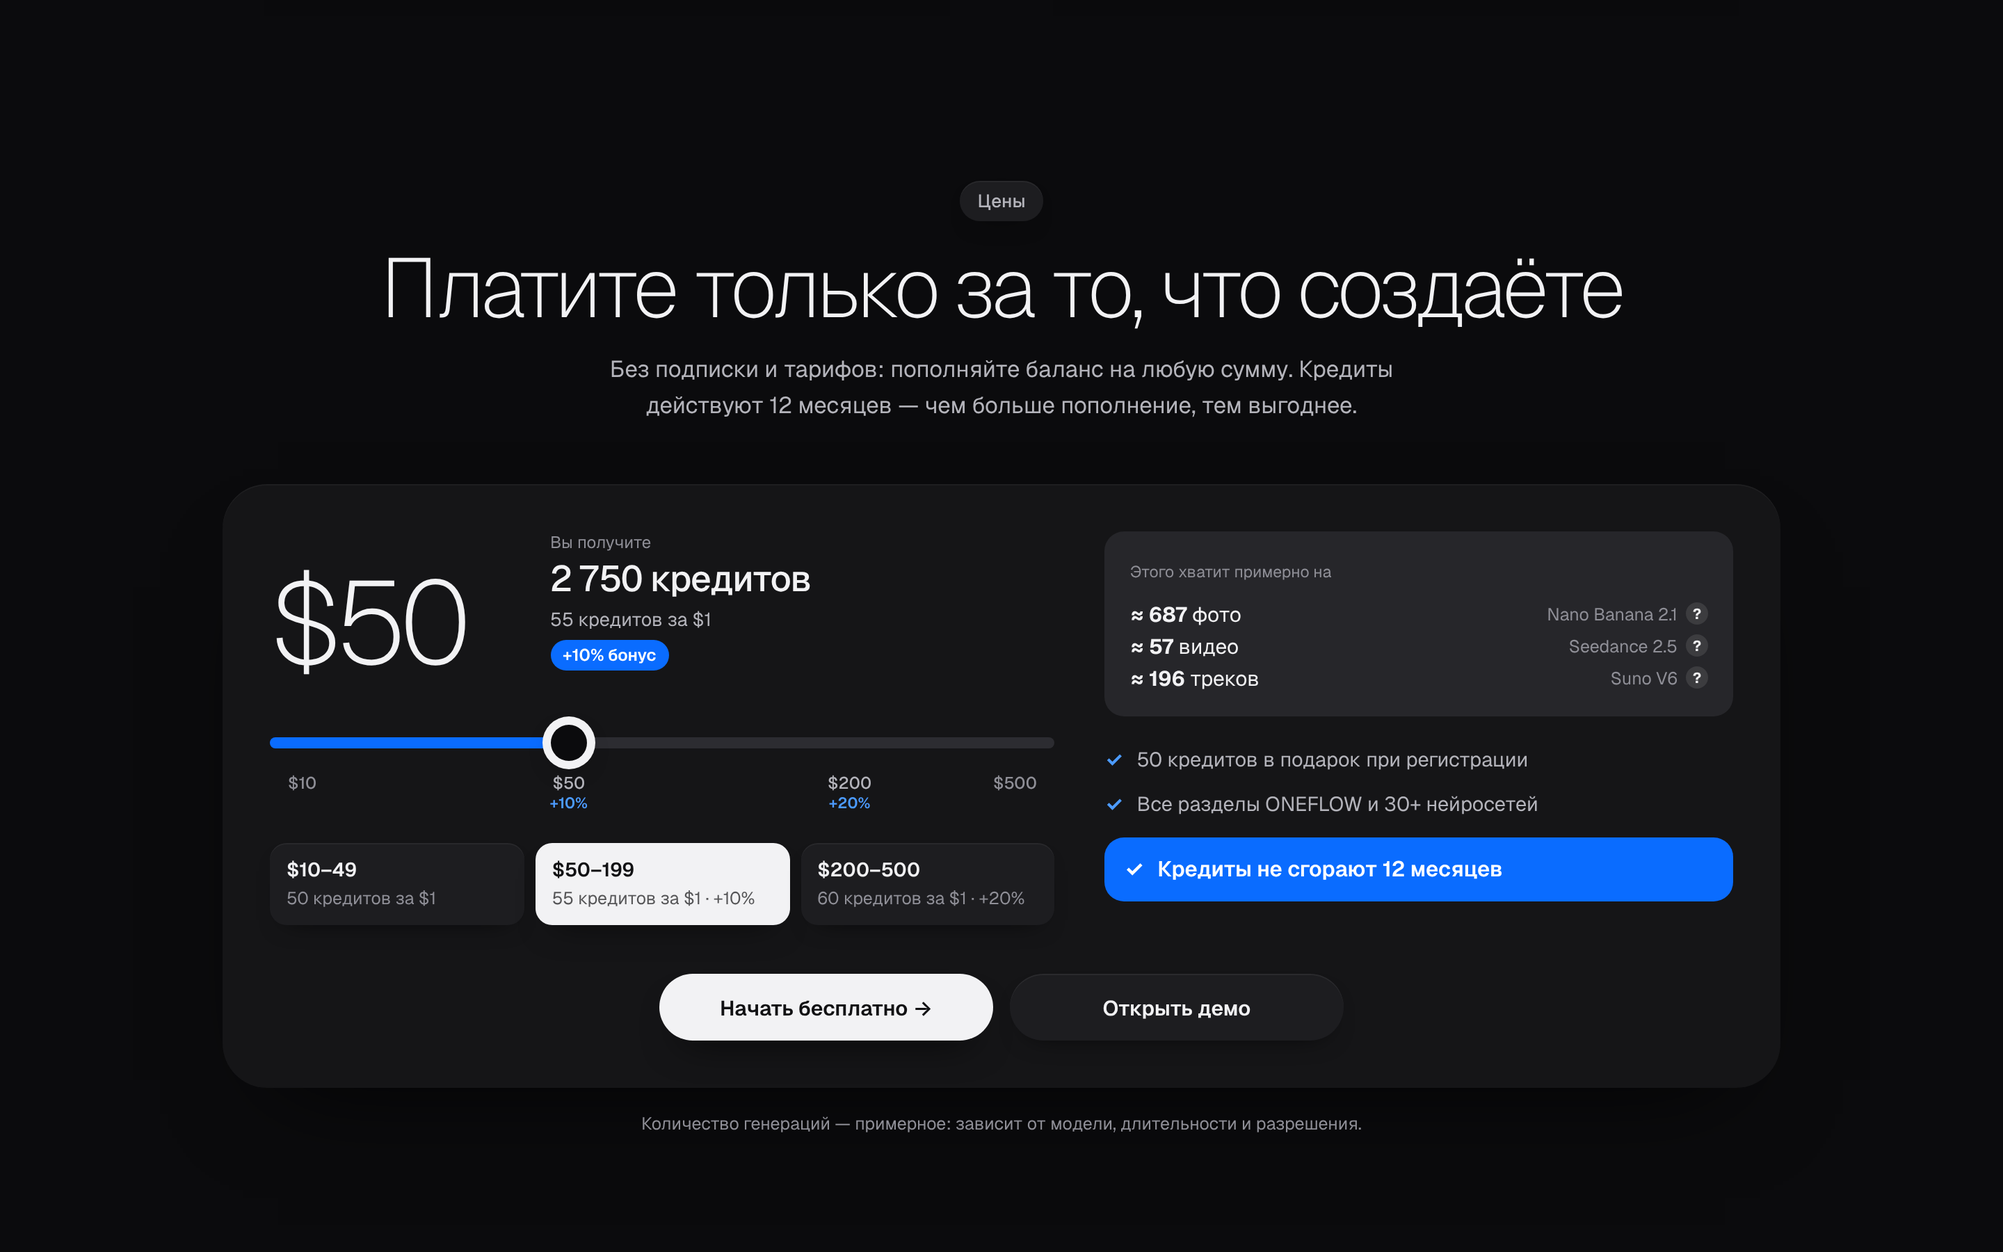
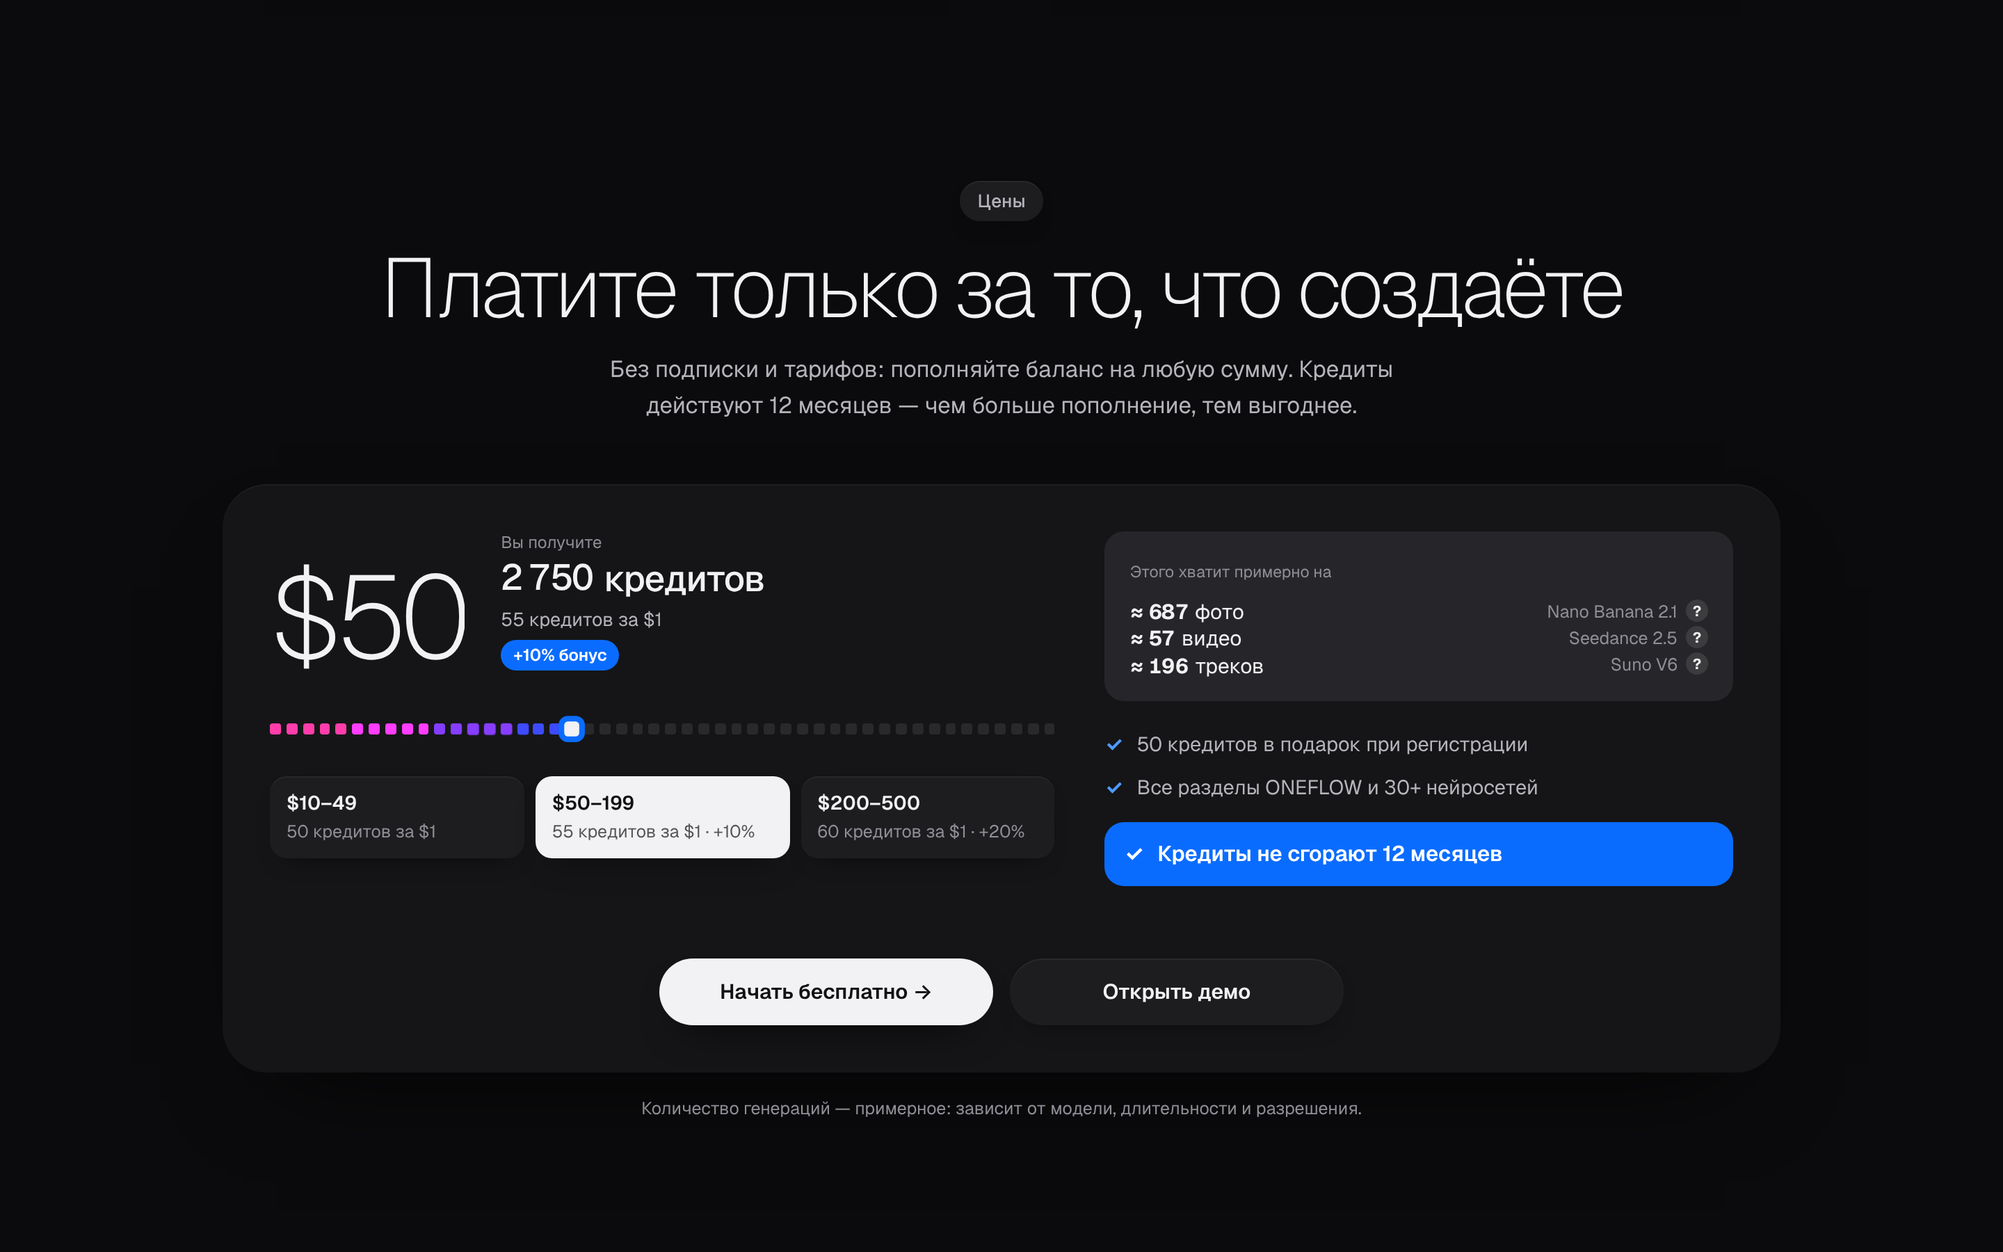
Hero draft: squares in the pricing card and the app's top-up window (v19.67)
Claude-Session: https://claude.ai/code/session_018a2KjtpEKLUTJU5P3jAt1D

diff --git a/landing/hero_draft/patch_topup_app.py b/landing/hero_draft/patch_topup_app.py
@@ -1,0 +1,239 @@
+"""The app's top-up window gets the control of the landing: a row of squares over an invisible range input,
+numbers that roll like a drum, and the three examples counted from the app's own (Atlas Cloud) price tables.
+Run from the root of the main repo:  python3 -I patch_topup_app.py"""
+
+# ---- credits.ts
+p = 'src/credits.ts'
+s = open(p, encoding='utf-8').read()
+tail = s[s.index('// What a credit buys, for the'):]
+new = '''// What a credit buys, for the "≈ N images" hints: the same three examples as the landing (the strip under the
+// hero and the pricing section), counted from the app's own price tables — the prices of Atlas Cloud — the way
+// the server counts credits (1 credit = 1 cent of cost, rounded up, with the model's price factor).
+export const EXAMPLE_VIDEO_MODEL = 'bytedance/seedance-2.5';
+export function creditExamples(modelCredits: (usd: number, model: string) => number): { image: number; video5s: number; music: number } {
+  return {
+    image: Math.max(1, modelCredits(estimateImageCost('google/nano-banana-2.1', '1K', 1), 'google/nano-banana-2.1')), // 4
+    video5s: Math.max(1, modelCredits(estimateVideoCost(EXAMPLE_VIDEO_MODEL, '480p', 5), EXAMPLE_VIDEO_MODEL)), // 48 at factor 0.7
+    music: Math.max(1, usdToCredits(SONG_USD)), // Suno V6, one request with two takes: 14
+  };
+}
+'''
+s = s.replace(tail, new)
+a = "import { usdToCredits, type CreditBalance } from './types';"
+assert s.count(a) == 1
+s = s.replace(a, "import { SONG_USD, estimateImageCost, estimateVideoCost, usdToCredits, type CreditBalance } from './types';")
+open(p, 'w', encoding='utf-8').write(s)
+
+# ---- i18n
+p = 'src/i18n.ts'
+s = open(p, encoding='utf-8').read()
+for a, b in [("videos: 'видео 5 с · Kling 3.0, 720p',", "videos: 'видео 5 с · Seedance 2.5, 480p',"),
+             ("music: 'треков · Lyria 3 Pro',", "music: 'треков · Suno V6',"),
+             ("videos: '5-second videos · Kling 3.0, 720p',", "videos: '5-second videos · Seedance 2.5, 480p',"),
+             ("music: 'music tracks · Lyria 3 Pro',", "music: 'music tracks · Suno V6',")]:
+    assert s.count(a) == 1, a
+    s = s.replace(a, b)
+open(p, 'w', encoding='utf-8').write(s)
+
+# ---- TopUpModal
+p = 'src/components/TopUpModal.tsx'
+s = open(p, encoding='utf-8').read()
+
+
+def once(a, b):
+    global s
+    assert s.count(a) == 1, a[:60]
+    s = s.replace(a, b)
+
+
+once("import { CREDIT_EXAMPLES, creditsForTopUp, topUpStops, useCredits } from '../credits';",
+     "import { creditExamples, creditsForTopUp, topUpStops, useCredits, useModelCredits } from '../credits';")
+once("// Top-up window: a slider over sensible amounts,", '''// The squares of the amount control, as on the landing: they light up to the chosen sum and the last lit ones
+// pulse, the stronger the larger the sum. The real range input lies over them, invisible, so the keyboard, the
+// mouse and touch work as with any slider.
+const HUES = [326, 300, 262, 236, 212, 190, 158, 110, 70, 36];
+const PULSE = 7;
+
+function useNarrow(): boolean {
+  const [narrow, setNarrow] = useState(() => window.matchMedia('(max-width: 560px)').matches);
+  useEffect(() => {
+    const mq = window.matchMedia('(max-width: 560px)');
+    const on = () => setNarrow(mq.matches);
+    mq.addEventListener('change', on);
+    return () => mq.removeEventListener('change', on);
+  }, []);
+  return narrow;
+}
+
+function Squares({ part, amp }: { part: number; amp: number }) {
+  const n = useNarrow() ? 24 : 40;
+  const lit = Math.max(1, Math.round(part * (n - 1)) + 1);
+  const box = { ['--amp' as string]: amp.toFixed(3), ['--beat' as string]: `${(1.5 - amp * 0.85).toFixed(2)}s` };
+  return (
+    <div className="sq-cells" aria-hidden="true" style={box}>
+      {Array.from({ length: n }, (_, i) => {
+        const back = lit - 1 - i; // 0 is the square under the thumb
+        const beat = back > 0 && back <= PULSE;
+        const hue = HUES[Math.min(HUES.length - 1, Math.floor((i * HUES.length) / n))];
+        return (
+          <i
+            key={i}
+            className={`${i < lit ? 'on' : ''}${i === lit - 1 ? ' at' : ''}${beat ? ' beat' : ''}`}
+            style={{
+              ['--c' as string]: `hsl(${hue} 100% 62%)`,
+              ...(beat ? { ['--near' as string]: (1 - (back - 1) / PULSE).toFixed(2), animationDelay: `${(-back * 0.09).toFixed(2)}s` } : {}),
+            }}
+          />
+        );
+      })}
+    </div>
+  );
+}
+
+/** A number whose digits roll to their new value like a drum; columns are counted from the right, so a longer
+ *  number grows on the left. */
+function Roll({ text }: { text: string }) {
+  const chars = text.split('');
+  return (
+    <span className="sq-roll" role="text" aria-label={text}>
+      {chars.map((ch, k) => {
+        const fromRight = chars.length - k;
+        return ch >= '0' && ch <= '9' ? (
+          <span key={`d${fromRight}`} className="sq-col" aria-hidden="true">
+            <u style={{ transform: `translateY(${-Number(ch) * 10}%)` }}>
+              0<br />1<br />2<br />3<br />4<br />5<br />6<br />7<br />8<br />9
+            </u>
+          </span>
+        ) : (
+          <span key={`c${fromRight}`} className="sq-ch" aria-hidden="true">
+            {ch}
+          </span>
+        );
+      })}
+    </span>
+  );
+}
+
+// Top-up window: a slider over sensible amounts,''')
+once("  const [consented, setConsented] = useState(false);\n",
+     "  const [consented, setConsented] = useState(false);\n  const modelCredits = useModelCredits();\n")
+once("  const pct = (idx / Math.max(1, stops.length - 1)) * 100;\n",
+     "  const part = idx / Math.max(1, stops.length - 1);\n  const examples = creditExamples(modelCredits);\n")
+once('<div className="topup-usd">${num(usd)}</div>',
+     '<div className="topup-usd">\n              <Roll text={`$${num(usd)}`} />\n            </div>')
+once("<b>{t.credits.count(credits)}</b>",
+     "<b>\n                <Roll text={num(credits)} /> {t.credits.count(credits).replace(/^[\\d\\s.,]+/, '')}\n              </b>")
+once('''<div className="topup-slider" style={{ ['--p' as string]: `${pct}%` }}>''',
+     '''<div className="topup-slider">\n            <Squares part={part} amp={Math.min(1, usd / Math.max(1, topup.maxUsd))} />''')
+for k in ['image', 'video5s', 'music']:
+    once("<b>≈ {num(Math.floor(credits / CREDIT_EXAMPLES.%s))}</b>" % k,
+         "<b>\n                  <Roll text={`≈ ${num(Math.floor(credits / examples.%s))}`} />\n                </b>" % k)
+open(p, 'w', encoding='utf-8').write(s)
+
+# ---- CSS
+p = 'src/Credits.css'
+s = open(p, encoding='utf-8').read()
+i = s.index('/* slider */')
+j = s.index('.topup-marks {')
+new = '''/* the amount control: a row of squares with the real range input over them, invisible (as on the landing) */
+.topup-slider {
+  position: relative;
+  margin: 26px 0 0;
+  padding-bottom: 40px;
+}
+.sq-cells {
+  display: flex;
+  gap: 4px;
+}
+.sq-cells i {
+  flex: 1;
+  aspect-ratio: 1;
+  border-radius: 2px;
+  background: color-mix(in srgb, var(--c-text) 10%, transparent);
+  transition: background 0.2s;
+}
+.sq-cells i.on {
+  background: var(--c);
+}
+.sq-cells i.at {
+  background: var(--c-text);
+  transform: scale(1.35);
+}
+.sq-cells i.beat {
+  animation: sq-beat var(--beat, 1.4s) ease-in-out infinite;
+}
+@keyframes sq-beat {
+  0%,
+  100% {
+    transform: scale(1);
+    filter: brightness(1);
+    box-shadow: 0 0 0 0 transparent;
+  }
+  50% {
+    transform: scale(calc(1 + 0.5 * var(--amp, 0) * var(--near, 0)));
+    filter: brightness(calc(1 + 0.7 * var(--amp, 0) * var(--near, 0)));
+    box-shadow: 0 0 calc(22px * var(--amp, 0) * var(--near, 0)) var(--c);
+  }
+}
+/* html:root lifts it above the app's global input styles (border, panel background) */
+html:root .topup-slider input[type='range'] {
+  -webkit-appearance: none;
+  appearance: none;
+  position: absolute;
+  left: 0;
+  top: -10px;
+  width: 100%;
+  height: calc(100% - 20px);
+  min-height: 34px;
+  margin: 0;
+  padding: 0;
+  border: 0;
+  box-shadow: none;
+  background: transparent;
+  opacity: 0;
+  cursor: pointer;
+}
+.topup-slider:has(input:focus-visible) .sq-cells i.at {
+  box-shadow: 0 0 0 3px var(--v2-accent);
+}
+/* a number that rolls: each digit is a column of ten */
+.sq-roll {
+  display: inline-flex;
+  vertical-align: bottom;
+  font-variant-numeric: tabular-nums;
+}
+.sq-col {
+  display: inline-block;
+  height: 1em;
+  line-height: 1;
+  overflow: hidden;
+}
+.sq-col u {
+  display: block;
+  text-align: center;
+  text-decoration: none;
+  line-height: 1;
+  transition: transform 0.55s cubic-bezier(0.2, 0.9, 0.25, 1);
+  will-change: transform;
+}
+.sq-ch {
+  display: inline-block;
+  line-height: 1;
+  white-space: pre;
+}
+@media (prefers-reduced-motion: reduce) {
+  .sq-cells i.beat {
+    animation: none;
+  }
+  .sq-col u {
+    transition: none;
+  }
+}
+
+'''
+s = s[:i] + new + s[j:]
+a = ".topup-marks {\n  position: absolute;\n  left: 14px;\n  right: 14px;"
+assert s.count(a) == 1
+s = s.replace(a, ".topup-marks {\n  position: absolute;\n  left: 6px;\n  right: 6px;")
+open(p, 'w', encoding='utf-8').write(s)
+print('ok')

diff --git a/landing/hero_draft/patch_pricing_squares.py b/landing/hero_draft/patch_pricing_squares.py
@@ -1,0 +1,136 @@
+"""The pricing section of the landing gets the same control as the strip under the hero: a row of squares over an
+invisible range input, and numbers that roll like a drum. The strip's script now gives both blocks the same two
+helpers (window.ofRoll, window.ofSquares).   python3 -I patch_pricing_squares.py <ru.html> <index.html>"""
+import re, sys
+
+STRIP_JS = r"""
+/* The squares and the rolling numbers, shared by the strip under the hero and the pricing section. The squares
+   light up to the chosen sum and the last lit ones pulse — the larger the sum, the stronger; a number rolls to
+   its new value like a drum. In the strip: credits per $1 as in the pricing section; a photo is Nano Banana 2.1
+   (4 credits), a video Seedance 2.5, 5 s at 480p (48), a track Suno V6 (14). */
+(function () {
+  var HUES = [326, 300, 262, 236, 212, 190, 158, 110, 70, 36], PULSE = 7;
+  var narrow = window.matchMedia('(max-width: 720px)');
+  /* a number as columns of digits: a column slides to its digit; columns are added and taken away on the left */
+  function roll(el, text) {
+    var want = text.split(''), have = [].slice.call(el.children);
+    while (have.length > want.length) el.removeChild(have.shift());
+    while (have.length < want.length) { var s = document.createElement('span'); el.insertBefore(s, el.firstChild); have.unshift(s); }
+    want.forEach(function (ch, k) {
+      var s = have[k], digit = ch >= '0' && ch <= '9';
+      if (!digit) { s.className = 'hs-ch'; s.textContent = ch; return; }
+      if (s.className !== 'hs-col') { s.className = 'hs-col'; s.innerHTML = '<u>0<br>1<br>2<br>3<br>4<br>5<br>6<br>7<br>8<br>9</u>'; }
+      s.firstChild.style.transform = 'translateY(' + (-Number(ch) * 10) + '%)';
+    });
+    el.setAttribute('aria-label', text);
+  }
+  /* the squares of one .hs-px block; returns paint(part of the scale 0..1, strength of the pulse 0..1).
+     Half as many squares on a phone, rebuilt when the width crosses that line. */
+  function squares(px) {
+    var box = px.querySelector('.hs-cells'), cells = [], last = [0, 0];
+    function build() {
+      var N = narrow.matches ? 24 : 48; box.textContent = ''; cells = [];
+      for (var i = 0; i < N; i++) {
+        var c = document.createElement('i');
+        c.style.setProperty('--c', 'hsl(' + HUES[Math.min(HUES.length - 1, Math.floor(i * HUES.length / N))] + ' 100% 62%)');
+        box.appendChild(c); cells.push(c);
+      }
+    }
+    function paint(part, amp) {
+      last = [part, amp];
+      var N = cells.length, lit = Math.max(1, Math.round(part * (N - 1)) + 1);
+      box.style.setProperty('--amp', amp.toFixed(3));
+      box.style.setProperty('--beat', (1.5 - amp * 0.85).toFixed(2) + 's');
+      cells.forEach(function (c, i) {
+        var back = lit - 1 - i; /* 0 is the square under the thumb */
+        c.className = i < lit - 1 ? 'on' : i === lit - 1 ? 'on at' : '';
+        /* the last lit squares pulse, the nearer to the end the more */
+        if (back > 0 && back <= PULSE) { c.classList.add('beat'); c.style.setProperty('--near', (1 - (back - 1) / PULSE).toFixed(2)); c.style.animationDelay = (-back * 0.09).toFixed(2) + 's'; }
+      });
+    }
+    build();
+    var again = function () { build(); paint(last[0], last[1]); };
+    if (narrow.addEventListener) narrow.addEventListener('change', again); else if (narrow.addListener) narrow.addListener(again);
+    return paint;
+  }
+  window.ofRoll = roll; window.ofSquares = squares;
+
+  var root = document.getElementById('topup'); if (!root) return;
+  var COST = { photo: 4, video: 48, music: 14 }, GAP = '@GAP@';
+  var r = root.querySelector('input'), paint = squares(root.querySelector('.hs-px'));
+  function sp(n) { return String(n).replace(/\B(?=(\d{3})+(?!\d))/g, GAP); }
+  function draw() {
+    var usd = Number(r.value), credits = usd * (usd < 50 ? 50 : usd < 200 ? 55 : 60);
+    roll(root.querySelector('[data-o=usd]'), '$' + usd);
+    roll(root.querySelector('[data-o=credits]'), sp(credits));
+    for (var k in COST) roll(root.querySelector('[data-o=' + k + ']'), sp(Math.floor(credits / COST[k])));
+    paint((usd - 10) / 490, usd / 500);
+  }
+  r.addEventListener('input', draw); draw();
+  /* a tap on «?» opens its note and a tap anywhere else closes it (a phone has no hover) */
+  document.addEventListener('click', function (e) {
+    var q = e.target && e.target.closest ? e.target.closest('#topup .hs-q') : null;
+    [].forEach.call(root.querySelectorAll('.hs-q.open'), function (x) { if (x !== q) x.classList.remove('open'); });
+    if (q) q.classList.toggle('open');
+  });
+})();
+"""
+
+CSS = """
+/* the pricing section: the same squares and rolling numbers as the strip under the hero (the owner, 2026-11-20) */
+#pricing .tp-px { margin: 34px 0 30px; }
+#pricing .tp-usd.hs-roll { display: flex; min-width: 0; }
+#pricing .tp-usd .hs-col u, #pricing .tp-usd .hs-ch { line-height: 1; }
+#pricing .tp-get b { display: flex; align-items: center; gap: .3em; line-height: 1.1; }
+#pricing .tp-get b span { font: inherit; color: inherit; }
+#pricing .gens ul { gap: 11px !important; }
+#pricing .gens li > span:first-child { display: flex; align-items: center; gap: .32em; line-height: 1; }
+"""
+
+
+def patch(path, lang):
+    s = open(path, encoding='utf-8').read()
+
+    def once(a, b):
+        nonlocal s
+        assert s.count(a) == 1, (path, a[:70], s.count(a))
+        s = s.replace(a, b)
+
+    # 1. the strip's script: helpers for both blocks
+    m = re.search(r'(<input id="hsTop"[^>]*></div>\n</div><script>).*?(</script></section>)', s, re.S)
+    assert m and "GAP = '" in m.group(0)
+    gap = re.search(r"GAP = '(.)'", m.group(0)).group(1)
+    s = s[:m.start()] + m.group(1) + STRIP_JS.replace('@GAP@', gap) + m.group(2) + s[m.end():]
+    # 2. `.hs` as a plain class may now stand on blocks of the pricing card: its own padding is the strip's only
+    once('.hs { padding: 6px 0 50px; }', 'section.hs { padding: 6px 0 50px; }')
+    once('  .hs { padding-bottom: 40px; }', '  section.hs { padding-bottom: 40px; }')
+    # 3. the pricing card: squares instead of the slider, rolled numbers
+    once('<div class="tp-l tp-calc">', '<div class="tp-l tp-calc hs">')
+    once('<div class="gens tp-calc">', '<div class="gens tp-calc hs">')
+    once('<div class="tp-usd" id="tpUsd">$50</div>', '<div class="tp-usd hs-roll" id="tpUsd"></div>')
+    m = re.search(r'<b id="tpCr">([\d\s, ]+) ([^<]+)</b>', s)
+    assert m, path
+    s = s[:m.start()] + f'<b id="tpCr"><span class="hs-roll" id="tpCrN"></span><span id="tpCrW">{m.group(2)}</span></b>' + s[m.end():]
+    m = re.search(r'<div class="tp-sl" style="--tpp:37\.5%">(<input type="range" id="tpR"[^>]*>)<div class="tp-mk" aria-hidden="true">.*?</div></div>', s, re.S)
+    assert m, path
+    s = s[:m.start()] + '<div class="tp-px hs-px"><div class="hs-cells" aria-hidden="true"></div>' + m.group(1) + '</div>' + s[m.end():]
+    n = len(re.findall(r'<b data-c="(\d+)">≈ [\d\s, ]+</b>', s))
+    assert n == 3, (path, n)
+    s = re.sub(r'<b data-c="(\d+)">≈ [\d\s, ]+</b>', r'<b class="hs-roll" data-c="\1"></b>', s)
+    # 4. the pricing script paints the squares and rolls the numbers
+    once("const $ = (id) => document.getElementById(id), sl = r.parentElement, base = tiers[0][1];",
+         "const $ = (id) => document.getElementById(id), base = tiers[0][1];\n"
+         "  const roll = window.ofRoll || ((el, t) => { el.textContent = t; }), paint = window.ofSquares ? window.ofSquares(r.parentElement) : () => {};")
+    once("$('tpUsd').textContent = '$' + usd; $('tpCr').textContent = crs;", "roll($('tpUsd'), '$' + usd); roll($('tpCrN'), num(cr)); $('tpCrW').textContent = word(cr);")
+    once("sl.style.setProperty('--tpp', (i / (stops.length - 1)) * 100 + '%'); r.setAttribute(", "paint(i / (stops.length - 1), usd / 500); r.setAttribute(")
+    once("document.querySelectorAll('#pricing [data-c]').forEach((b) => { b.textContent = '≈ ' + num(Math.floor(cr / +b.dataset.c)); });",
+         "document.querySelectorAll('#pricing [data-c]').forEach((b) => { roll(b, '≈ ' + num(Math.floor(cr / +b.dataset.c))); });")
+    once("// pricing slider: same stops and tiers as the app's top-up window; numbers are formatted for the page language",
+         "// pricing: same stops and tiers as the app's top-up window, drawn as the squares of the strip under the hero;\n// numbers are formatted for the page language and roll to their new value")
+    end = s.rfind('</style>', 0, s.index('</head>'))
+    s = s[:end] + CSS + s[end:]
+    open(path, 'w', encoding='utf-8').write(s)
+    print(lang, 'ok')
+
+
+patch(sys.argv[1], 'ru'); patch(sys.argv[2], 'en')

diff --git a/landing/hero_draft/README.md b/landing/hero_draft/README.md
@@ -56,3 +56,7 @@ The hero and the strip went into `landing/ru.html` and `landing/index.html` of t
 ## 2026-11-20: v19.66
 
 Header buttons with small corner radii, the pricing calculator counted by the same models as the strip (Seedance 2.5 480p 5 s = 48 credits, Suno V6 = 14), footer links wrap on a phone (the Russian page was 8 px wider than the screen). Patch: `patch_head_price.py`; pictures `site-header.png`, `site-pricing.png`, `site-phone-menu.png`.
+
+## 2026-11-20: v19.67
+
+The squares and rolling numbers replace the old slider in the pricing card of the landing (`patch_pricing_squares.py`) and in the top-up window of the app (`patch_topup_app.py`); the app counts its three examples from its Atlas price tables. Pictures: `site-pricing.png`, `app-topup.png`.
